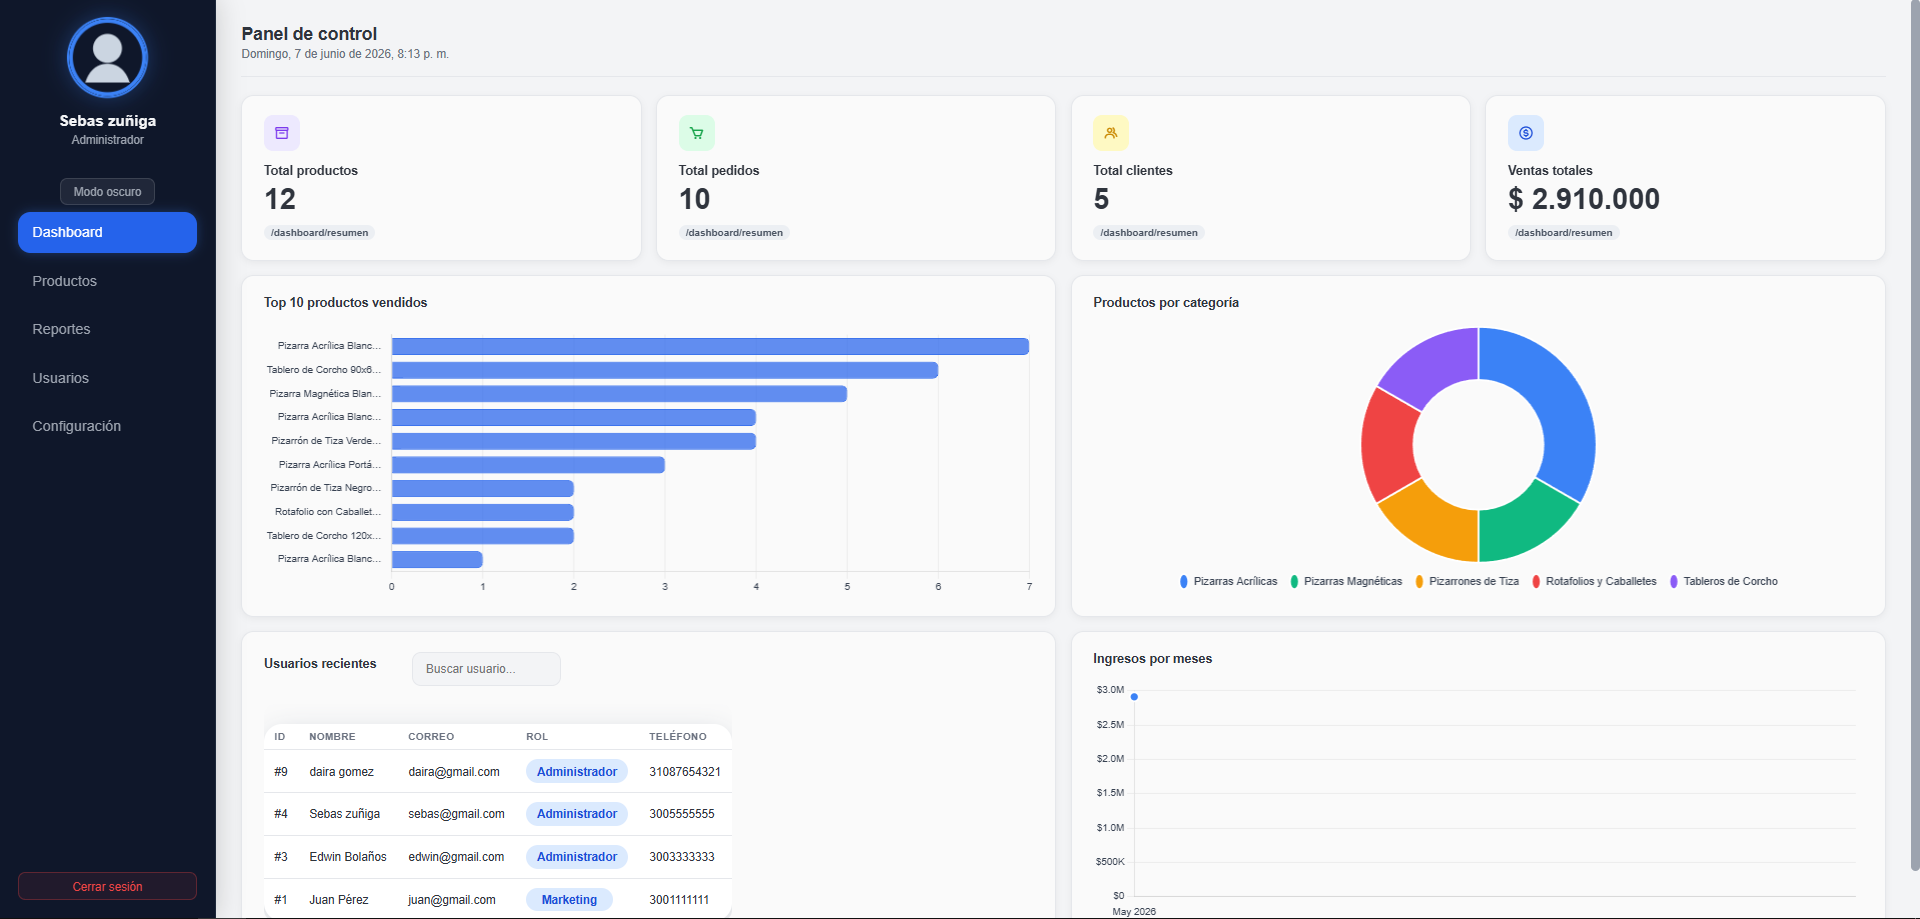
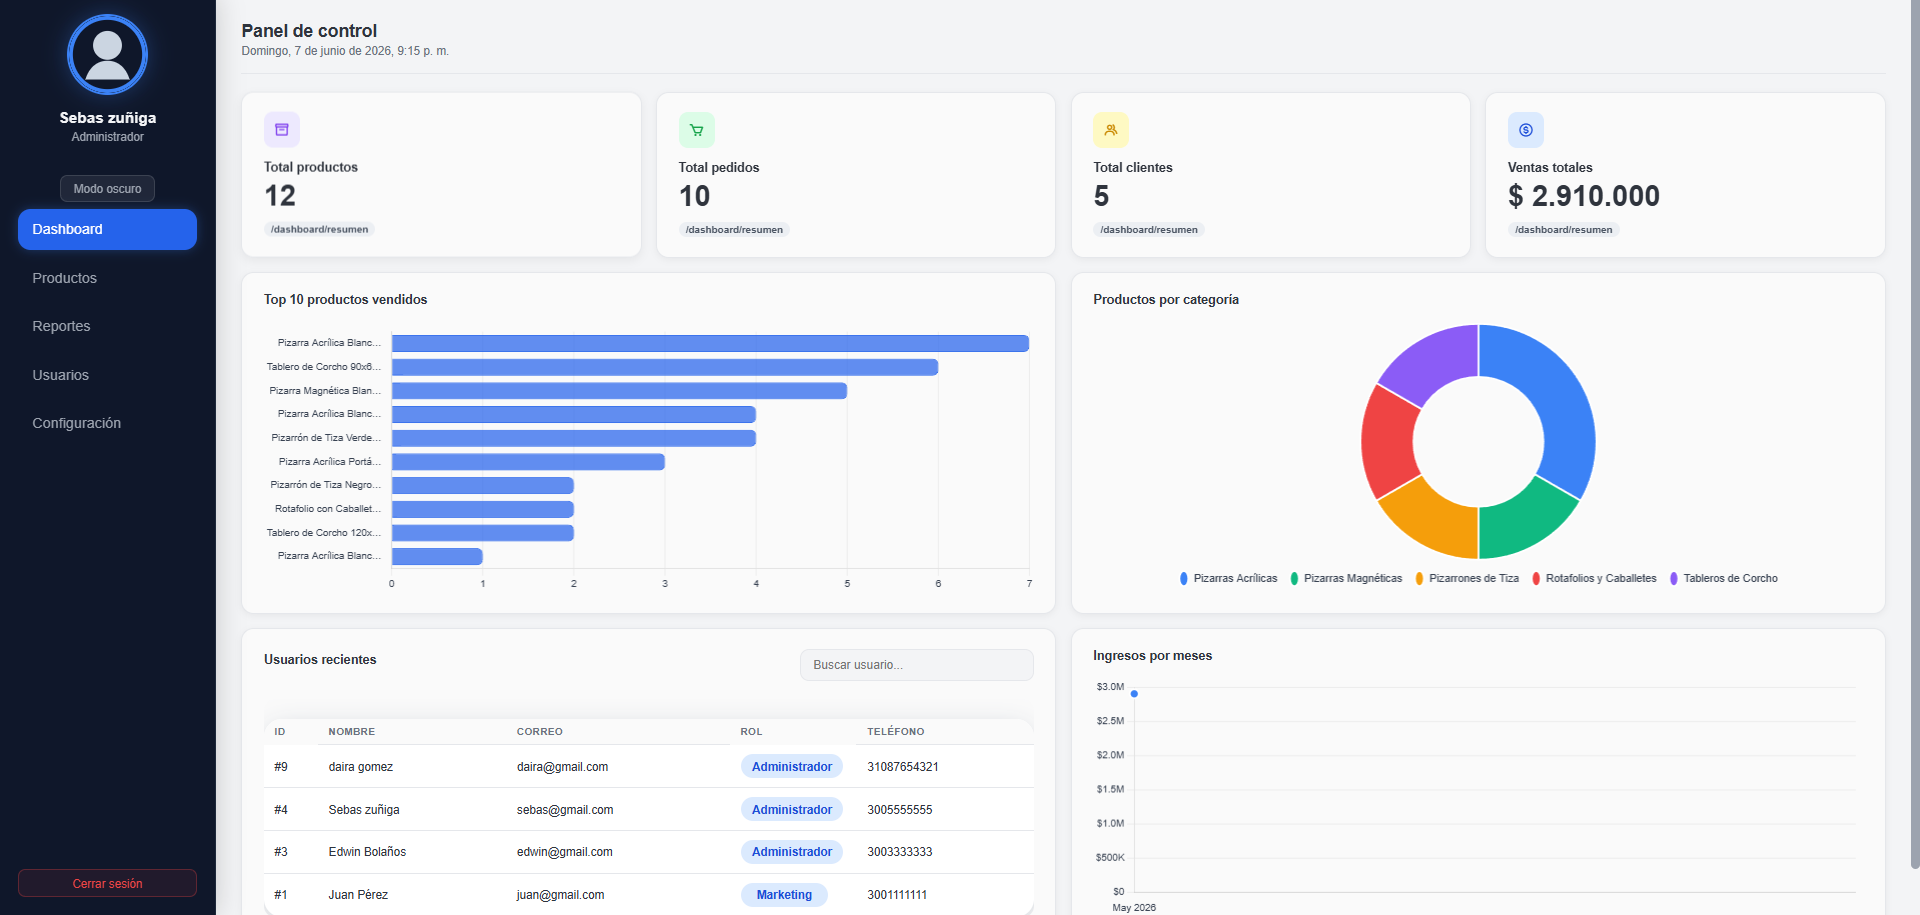
correccion de errores

diff --git a/public/css/tema.css b/public/css/tema.css
@@ -202,26 +202,19 @@
   justify-content: space-between;
   align-items: center;
   gap: 12px;
-
+  flex-shrink: 0;
   margin-bottom: 14px;
 }
 
 /* INPUT BUSCAR */
 .activity-header input {
-  width: min(240px, 50%);
-
-  padding: 10px 14px;
-
+  width: min(260px, 50%);
+  padding: 9px 14px;
   border-radius: 10px;
-
   border: 1px solid var(--card-border);
-
   background: var(--bg-main);
-
   color: var(--text-primary);
-
   outline: none;
-
   transition: border 0.2s;
 }
 
@@ -239,10 +232,9 @@ body.dark .activity-header input {
 /* WRAPPER SCROLL */
 .activity-table-wrapper {
   flex: 1;
-
+  min-height: 0;
   overflow-y: auto;
   overflow-x: auto;
-
   border-radius: 12px;
 }
 
@@ -262,6 +254,10 @@ body.dark .activity-header input {
   position: sticky;
   top: 0;
   z-index: 10;
+  background: var(--card-bg);
+}
+body.dark .activity-table thead th {
+  background: var(--dark-card-bg);
 }
 
 /* MÁS ESPACIO */
@@ -300,6 +296,20 @@ body.dark .activity-header input {
   width: 100%;
   border-collapse: collapse;
   font-size: 13px;
+  table-layout: auto;
+}
+
+/* Columnas proporcionadas en tablas del dashboard */
+.dash-activity .activity-table th:nth-child(1),
+.prod-tabla-bajo .activity-table th:nth-child(1) {
+  width: 60px;
+  white-space: nowrap;
+}
+
+.dash-activity .activity-table th:nth-child(4),
+.prod-tabla-bajo .activity-table th:nth-child(4) {
+  width: 140px;
+  white-space: nowrap;
 }
 
 .activity-table th {
@@ -730,7 +740,7 @@ body.dark .modal-btns .btn-cancel {
   grid-row: 2;
   min-height: 300px;
   flex-direction: column;
-  align-items: flex-start;
+  align-items: stretch;
 }
 
 .parent-dashboard .dash-chart-cat {
@@ -738,7 +748,7 @@ body.dark .modal-btns .btn-cancel {
   grid-row: 2;
   min-height: 300px;
   flex-direction: column;
-  align-items: flex-start;
+  align-items: stretch;
 }
 
 .parent-dashboard .dash-activity {
@@ -746,7 +756,8 @@ body.dark .modal-btns .btn-cancel {
   grid-row: 3;
   display: flex;
   flex-direction: column;
-  min-height: 300px;
+  align-items: stretch;
+  min-height: 0;
   max-height: 50vh;
   overflow: hidden;
 }
@@ -756,8 +767,33 @@ body.dark .modal-btns .btn-cancel {
   grid-row: 3;
   min-height: 300px;
   flex-direction: column;
-  align-items: flex-start;
+  align-items: stretch;
 }
+
+/* ── Forzar tablas internas a llenar su card ── */
+.dash-activity,
+.prod-tabla-bajo {
+  height: 100%;
+}
+
+.dash-activity .activity-header,
+.prod-tabla-bajo .activity-header {
+  width: 100%;
+}
+
+.dash-activity .activity-table-wrapper,
+.prod-tabla-bajo .activity-table-wrapper {
+  flex: 1;
+  min-height: 0;
+  width: 100%;
+}
+
+.dash-activity .activity-table,
+.prod-tabla-bajo .activity-table {
+  width: 100%;
+}
+
+
 
 /* ── Productos 4-column grid ── */
 .parent-productos {
@@ -774,7 +810,8 @@ body.dark .modal-btns .btn-cancel {
   grid-row: 2;
   display: flex;
   flex-direction: column;
-  min-height: 250px;
+  align-items: stretch;
+  min-height: 0;
   max-height: 50vh;
   overflow: hidden;
 }
@@ -784,7 +821,7 @@ body.dark .modal-btns .btn-cancel {
   grid-row: 2;
   min-height: 300px;
   flex-direction: column;
-  align-items: flex-start;
+  align-items: stretch;
 }
 
 /* Contenedor de gráficos */
@@ -987,13 +1024,13 @@ body.dark .reporte-tab.activo {
 .reporte-filtros {
   display: flex;
   align-items: flex-end;
-  gap: 12px;
+  gap: 14px;
   flex-wrap: wrap;
 }
 
 .reporte-fechas {
   display: flex;
-  gap: 12px;
+  gap: 14px;
   flex-wrap: wrap;
 }
 
@@ -1001,6 +1038,8 @@ body.dark .reporte-tab.activo {
   display: flex;
   flex-direction: column;
   gap: 4px;
+  min-width: 160px;
+  width: 200px;
 }
 
 .reporte-campo label {
@@ -1014,10 +1053,11 @@ body.dark .reporte-tab.activo {
 body.dark .reporte-campo label { color: var(--dark-stat-label); }
 
 .reporte-campo input[type="date"] {
-  padding: 10px 14px;
+  width: 100%;
+  padding: 9px 12px;
   border: 1.5px solid var(--card-border);
   border-radius: 8px;
-  font-size: 14px;
+  font-size: 13px;
   background: var(--bg-main);
   color: var(--text-primary);
   outline: none;
@@ -1036,16 +1076,19 @@ body.dark .reporte-campo input[type="date"] {
   display: inline-flex;
   align-items: center;
   gap: 6px;
-  padding: 10px 20px;
+  padding: 9px 20px;
+  white-space: nowrap;
   background: linear-gradient(135deg, #1d4ed8, #3b82f6);
   color: white;
   border: none;
   border-radius: 9px;
-  font-size: 14px;
+  font-size: 13px;
   font-weight: 600;
   cursor: pointer;
   transition: opacity 0.2s, transform 0.15s;
   box-shadow: 0 4px 12px rgba(59, 130, 246, 0.3);
+  height: fit-content;
+  align-self: flex-end;
 }
 
 .reporte-btn-consultar:hover { opacity: 0.88; transform: translateY(-1px); }
@@ -1053,9 +1096,27 @@ body.dark .reporte-campo input[type="date"] {
 .reporte-tabla-card {
   display: flex;
   flex-direction: column;
+  align-items: stretch;
   min-height: 300px;
   max-height: 60vh;
   overflow: hidden;
+}
+
+.reporte-tabla-card .activity-table-wrapper {
+  flex: 1;
+  min-height: 0;
+  overflow-y: auto;
+  overflow-x: auto;
+}
+
+.reporte-tabla-card .activity-table thead th {
+  position: sticky;
+  top: 0;
+  z-index: 10;
+  background: var(--card-bg);
+}
+body.dark .reporte-tabla-card .activity-table thead th {
+  background: var(--dark-card-bg);
 }
 
 .reporte-tabla-header {
@@ -1070,7 +1131,7 @@ body.dark .reporte-campo input[type="date"] {
   display: inline-flex;
   align-items: center;
   gap: 6px;
-  padding: 9px 18px;
+  padding: 8px 16px;
   background: #059669;
   color: white;
   border: none;
@@ -1080,6 +1141,7 @@ body.dark .reporte-campo input[type="date"] {
   cursor: pointer;
   transition: opacity 0.2s, transform 0.15s;
   box-shadow: 0 4px 12px rgba(5, 150, 105, 0.3);
+  white-space: nowrap;
 }
 
 .reporte-btn-exportar:hover:not(:disabled) { opacity: 0.88; transform: translateY(-1px); }

diff --git a/public/css/dash.css b/public/css/dash.css
@@ -717,7 +717,7 @@ body.dark .badge-rol {
 }
 
 .btn-editar-usuario {
-  background: #2563eb;
+  background: transparent;
 }
 
 .btn-editar-usuario:hover {
@@ -725,7 +725,7 @@ body.dark .badge-rol {
 }
 
 .btn-eliminar-usuario {
-  background: #dc2626;
+  background: transparent;
 }
 
 .btn-eliminar-usuario:hover {
